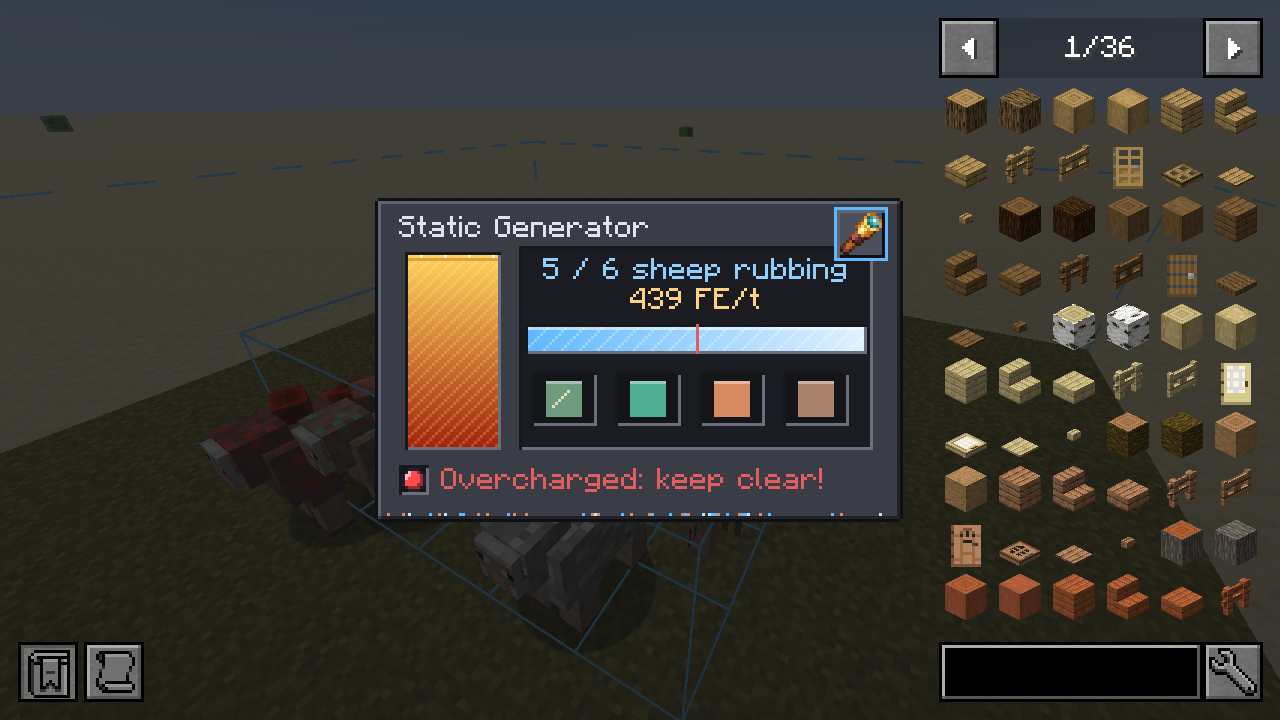
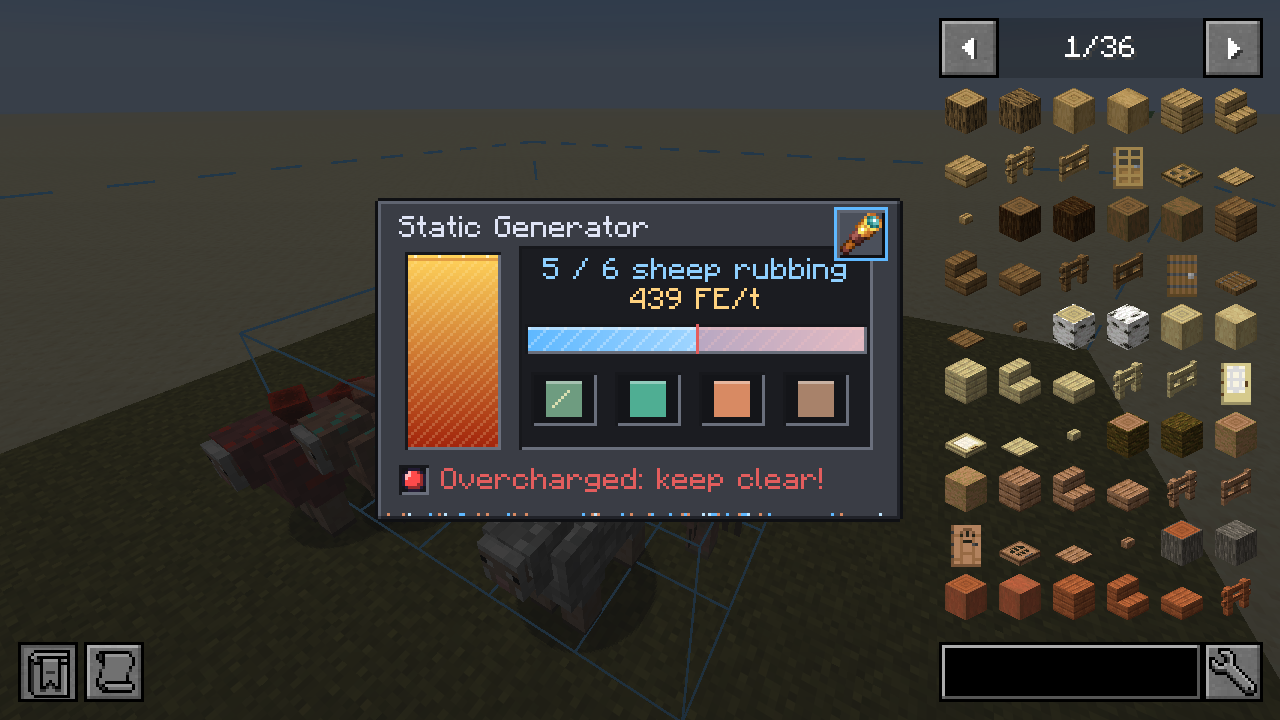
Static Generator window: the dome's charge bar no longer flashes when overcharged
It stays steady, with the part past the shock line tinted red instead.

Claude-Session: https://claude.ai/code/session_012iurxobutw9xMP3SqHHLFE

Changed region(s): [[0.5312, 0.4278, 0.6875, 0.4889], [0.0312, 0.1528, 0.0625, 0.1833]]

diff --git a/src/main/java/com/jax3/barelyfunctionalcontraptions/sheep/client/StaticGeneratorScreen.java b/src/main/java/com/jax3/barelyfunctionalcontraptions/sheep/client/StaticGeneratorScreen.java
@@ -66,13 +66,16 @@ public class StaticGeneratorScreen extends AbstractContainerScreen<StaticGenerat
             }
         }
 
-        // The dome's charge, flickering past the shock line.
+        // The dome's charge, steady; overcharged, the part past the shock line is tinted red.
         int width = Math.round(CHARGE_W * Math.min(1F, menu.getCharge() / (float) menu.getDomeCapacity()));
         boolean danger = menu.getState() == State.OVERCHARGED;
-        if (width > 0 && !(danger && time % 6 < 2)) {
+        if (width > 0) {
             graphics.blit(RenderPipelines.GUI_TEXTURED, TEXTURE, x + CHARGE_X, y + CHARGE_Y, 0, CHARGE_V, width, CHARGE_H, TEX, TEX);
         }
         int line = x + CHARGE_X + Math.round(CHARGE_W * menu.getShockAt() / 1000F);
+        if (danger && x + CHARGE_X + width > line + 1) {
+            graphics.fill(line + 1, y + CHARGE_Y, x + CHARGE_X + width, y + CHARGE_Y + CHARGE_H, 0x60E35D5D);
+        }
         graphics.fill(line, y + CHARGE_Y - 1, line + 1, y + CHARGE_Y + CHARGE_H + 1, 0xFFE35D5D);
 
         // A chip for each comb: its copper colour, a sheen when waxed.

diff --git a/docs/REFERENCE.md b/docs/REFERENCE.md
@@ -538,7 +538,7 @@ I I I      Copper Comb: I = Copper Ingot
 | In its pen: four combs at different stages, five sheep | Its window |
 |---|---|
 | ![A Static Generator on grass with its pen outlined, four Copper Combs round it at different stages of oxidation, and Copper, Redstone and plain sheep at them](screenshots/107_static_generator.png) | ![Its window: 5 / 6 sheep rubbing, 439 FE/t, the dome's charge bar, and four comb chips coloured by stage, one waxed](screenshots/107_static_generator_gui.png) |
-| ![Close up of the Static Generator: the belt column and the copper dome above its base](screenshots/107_static_generator_close.png) | ![Its window overcharged: the dome's charge bar past the red shock line, and Overcharged: keep clear!](screenshots/107_static_generator_gui_overcharged.png) |
+| ![Close up of the Static Generator: the belt column and the copper dome above its base](screenshots/107_static_generator_close.png) | ![Its window overcharged: the dome's charge bar past the red shock line, tinted red beyond it, and Overcharged: keep clear!](screenshots/107_static_generator_gui_overcharged.png) |
 | ![Jade on the Static Generator: Overcharged: keep clear!, 439 FE/t, 5 / 6 sheep rubbing, dome charge, four combs with the worst oxidised and one waxed, and its energy](screenshots/107_static_generator_jade.png) | ![JEI's Static Generator page: the sheep, combs, generator, an axe and Honeycomb, and the power for one to six plain or Copper sheep](screenshots/107_static_generator_jei.png) |
 | ![Its crafting recipe in JEI: a Lightning Rod, two Copper Blocks, Redstone, two wool and a Functional Machine Block](screenshots/107_static_generator_jei_recipe.png) | ![Thrown back out of an overcharged pen in survival: Shocking!](screenshots/107_static_generator_shock.png) |
 | ![The test world's Static Generator: six sheep at four fresh combs in a fenced pen, an Energy Meter and a bank of Hume Energy Cubes behind it, with a row of machines in the next cell and the rest of the platform beyond](screenshots/107_static_generator_world.png) | |
